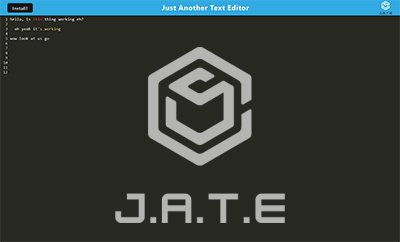
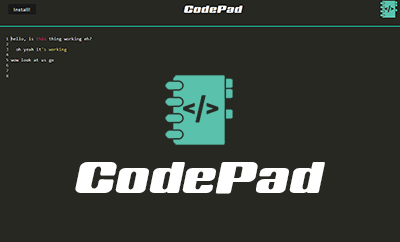
updated project links

Changed region(s): [[0.18, 0.1736, 0.81, 0.9256], [0.0, 0.0, 1.0, 0.3182]]

diff --git a/index.html b/index.html
@@ -15,7 +15,7 @@
   <script src="https://kit.fontawesome.com/6f05b4e923.js" crossorigin="anonymous"></script>
   <script src="https://cdn.jsdelivr.net/npm/bootstrap@5.3.0-alpha3/dist/js/bootstrap.bundle.min.js"></script>
 
-  
+
 </head>
 
 <body>
@@ -49,7 +49,7 @@
             </div>
             <div class="offcanvas-body" id="mobilenavbody">
               <ul class="navbar-nav justify-content-end flex-grow-1 pe-3 padd">
-                
+
                 <li class="nav-item">
                   <a class="nav-link" href="#about">About</a>
                 </li>
@@ -59,7 +59,7 @@
                 <li class="nav-item">
                   <a class="nav-link" href="#contact">Contact</a>
                 </li>
-                </ul>
+              </ul>
             </div>
           </div>
         </nav>
@@ -80,9 +80,11 @@
 
 
       <div class="socials">
-        <a href="https://www.linkedin.com/in/autangen94" target="_blank"><i id="linkedin" class="fab fa-linkedin-in fa-2xl"></i></a>
+        <a href="https://www.linkedin.com/in/autangen94" target="_blank"><i id="linkedin"
+            class="fab fa-linkedin-in fa-2xl"></i></a>
         <a href="https://github.com/AuTangen" target="_blank"><i id="github" class="fa-brands fa-github fa-2xl"></i></a>
-        <a href="https://www.instagram.com/the.sten/?hl=en" target="_blank"><i id="instagram" class="fa-brands fa-instagram fa-2xl"></i></a>
+        <a href="https://www.instagram.com/the.sten/?hl=en" target="_blank"><i id="instagram"
+            class="fa-brands fa-instagram fa-2xl"></i></a>
         <a href="mailto: atangen2406@gmail.com"><i id="email" class="fa-regular fa-envelope fa-2xl"></i></a>
 
       </div>
@@ -115,7 +117,8 @@
             than seeing others find joy in the experiences you've crafted.</p>
           <p>Most recently, this desire to deliver captivating user experiences has led me to the world of Web
             Development. I've just completed the <a href="https://docs.credentials.rutgers.edu/fa8b5cee-3e26-4b60-9c87-77914f760683
-            " target="_blank"><span id="bootcamp-span">Full Stack Coding Bootcamp</span></a> through Rutgers University and am seeking to
+            " target="_blank"><span id="bootcamp-span">Full Stack Coding Bootcamp</span></a> through Rutgers University
+            and am seeking to
             further expand my skillset and help build accessible, inclusive web applications.</p>
         </div>
         <h3>Here are some technologies I've been working with recently</h3>
@@ -134,7 +137,7 @@
         </div>
         <a href="https://docs.google.com/document/d/14WovQiOqvbw0aw2aDekKrEp7zPk5jm47Of7rJRUyX_U/edit?usp=sharing"
           target="_blank">
-          <h4 id="resume">View Full Résumé <span><i id="resume-arrow"class="fa-solid fa-arrow-right"></i></span></h4>
+          <h4 id="resume">View Full Résumé <span><i id="resume-arrow" class="fa-solid fa-arrow-right"></i></span></h4>
         </a>
       </div>
 
@@ -142,27 +145,35 @@
     <section id="projects" class='portfolio-container'>
 
       <h2 class="section-title">Projects</h2>
-      <a href="https://evening-everglades-03167.herokuapp.com/" target="_blank"><div class="project-wrap">
-        <div class='project-container'>
-          <div class="img-wrap">
-            <a href="https://evening-everglades-03167.herokuapp.com/" target="_blank"><img
-                src='./assets/images/jate.png' alt="jate text editor" width="150" height="100" id="jate"></img></a>
-          </div>
-          <div class='descr-container'>
-            <div>
-              <a href="https://evening-everglades-03167.herokuapp.com/" target="_blank"><h3>Just Another Text Editor</h3></a>
-
-              <a href="https://evening-everglades-03167.herokuapp.com/" target="_blank"><p>A progressive web app that utilizes the browser’s indexedDB to store and save user input. Built with Babel & Express Webpack.</p></a>
-              <div class="tech-div">
-                <p>Javascript</p>
-                <p>Express</p>
-                <p>Webpack</p>
-
-              </div>
+      <a href="https://evening-everglades-03167.herokuapp.com/" target="_blank">
+        <div class="project-wrap">
+          <div class='project-container'>
+            <div class="img-wrap">
+              <a href="https://evening-everglades-03167.herokuapp.com/" target="_blank"><img
+                  src='./assets/images/jate.png' alt="jate text editor" width="150" height="100" id="jate"></img></a>
             </div>
+            <div class='descr-container'>
+              <div>
+                <a href="https://evening-everglades-03167.herokuapp.com/" target="_blank">
+                  <h3>CodePad</h3>
+                </a>
 
+                <a href="https://evening-everglades-03167.herokuapp.com/" target="_blank">
+                  <p>A progressive web app that utilizes the browser’s indexedDB to store and save user input. Built
+                    with Babel & Express Webpack.</p>
+                </a>
+                <div class="tech-div">
+                  <p>Javascript</p>
+                  <p>Express</p>
+                  <p>Webpack</p>
+
+                </div>
+                <a href="https://github.com/AuTangen/codepad_text_editor" target="_blank"><p class="code">&lt; view code
+                    /&gt;</p></a>
+              </div>
+
+            </div>
           </div>
-        </div>
       </a>
       </div>
       <div class="project-wrap">
@@ -173,36 +184,48 @@
           </div>
           <div class='descr-container'>
 
-            <a href="https://github.com/AuTangen/09_README_generator" target="_blank"><h3>README Generator</h3></a>
+            <a href="https://github.com/AuTangen/09_README_generator" target="_blank">
+              <h3>README Generator</h3>
+            </a>
 
-            <a href="https://github.com/AuTangen/09_README_generator" target="_blank"><p>A Node.js command-line app that utilizes Inquirer to receive user input and then generates Markdown documentation</p></a>
+            <a href="https://github.com/AuTangen/09_README_generator" target="_blank">
+              <p>A Node.js command-line app that utilizes Inquirer to receive user input and then generates Markdown
+                documentation</p>
+            </a>
             <div class="tech-div">
               <p>Javascript</p>
               <p>NodeJS</p>
               <p>Jest</p>
 
             </div>
-
+            <a href="https://github.com/AuTangen/09_README_generator" target="_blank"><p class="code">&lt; view code
+                /&gt;</p></a>
           </div>
         </div>
       </div>
       <div class="project-wrap">
         <div class='project-container' id="notetaker-container">
           <div class="img-wrap">
-            <a href="https://warm-basin-11114.herokuapp.com/" target="_blank"><img id="notetaker"
-                src='./assets/images/notetaker.png' alt="note taker app" width="150" height="100"></img></a>
+            <a href="https://autangen.github.io/weather_app/" target="_blank"><img id="notetaker"
+                src='./assets/images/weatherapp.png' alt="note taker app" width="150" height="100"></img></a>
           </div>
           <div class='descr-container'>
             <div>
-              <a href="https://warm-basin-11114.herokuapp.com/" target="_blank"><h3>Note Taker App</h3></a>
+              <a href="https://autangen.github.io/weather_app/" target="_blank">
+                <h3>Weather App</h3>
+              </a>
 
-              <a href="https://warm-basin-11114.herokuapp.com/" target="_blank"><p>A simple note app to keep yourself organized. Leverages browser local storage to save data to the page.</p></a>
+              <a href="https://autangen.github.io/weather_app/" target="_blank">
+                <p>Search for cities to retrieve current and future weather data</p>
+              </a>
               <div class="tech-div">
                 <p>Javascript</p>
-                <p>Express</p>
-                <p>Webpack</p>
+                <p>Web API</p>
+                <p>jQuery</p>
 
               </div>
+              <a href="https://github.com/AuTangen/weather_app" target="_blank"><p class="code">&lt; view code
+                  /&gt;</p></a>
             </div>
 
           </div>
@@ -211,18 +234,18 @@
     </section>
     <section id="contact">
       <h2 id="contact-title" class="section-title">Contact</h2>
-      
-     
-      
-        <form onsubmit="sendEmail(); reset(); return false;">
-          <h3>Let's get in touch</h3>
-              <input id="form-name" type='text' placeholder='Name'></input>
-              <input id="form-email" type='email' placeholder='Email'></input>
-              <textarea id="form-message" type='text' placeholder='What&#39;s up?'></textarea>
-              <button>Send</button>
-          </form>
-      
-      
+
+
+
+      <form onsubmit="sendEmail(); reset(); return false;">
+        <h3>Let's get in touch</h3>
+        <input id="form-name" type='text' placeholder='Name'></input>
+        <input id="form-email" type='email' placeholder='Email'></input>
+        <textarea id="form-message" type='text' placeholder='What&#39;s up?'></textarea>
+        <button>Send</button>
+      </form>
+
+
     </section>
 
 

diff --git a/assets/css/style.css b/assets/css/style.css
@@ -264,7 +264,18 @@ font-style: italic;
  
 }
 
+.code {
+width: fit-content;
+ background-color:rgb(94, 126, 138);
+ color:rgb(255, 255, 255);
+ border-radius: 8px;
+ margin-right: 2%;
+ padding: 2% 4%;
+}
 
+.code:hover {
+  background-color:var(--back-color) ;
+}
 
 
 .zoom {
